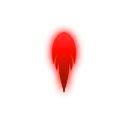
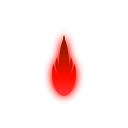
Fixing enemy shoot bug

Changed region(s): [[0.3438, 0.1875, 0.6562, 0.8125]]

diff --git a/examples/03_Tiling/PlayState.cpp b/examples/03_Tiling/PlayState.cpp
@@ -88,7 +88,7 @@ void PlayState::init()
         {
             enemies_shot[i][j].load("data/img/bullet_red.png");
             enemies_shot[i][j].setPosition(400,-500);
-            enemies_shot[i][j].setScale(0.5, -0.5);
+            enemies_shot[i][j].setScale(0.5, 0.5);
             enemies_shot[i][j].play();
         }
 
@@ -190,7 +190,7 @@ void PlayState::restart()
     // from Street Fighter 2 AND Space Jam soundtrack - https://www.youtube.com/watch?v=QDFDzTOyLvo
 
     turn = 1.0;
-    enemies_speed = 1.0;
+    enemies_speed = 1000.0;
     enemies_dead = 0;
     lives = 3;
     won = 0;
@@ -429,6 +429,7 @@ void PlayState::checkCollisions()
                         won = 1;
                 }
             }
+            printf("%i", enemies_shot[i][j].bboxCollision(player));
             if(enemies_shot[i][j].bboxCollision(player)&&gracePeriod==0)
             {
                 printf("TIRO\n");
@@ -606,7 +607,7 @@ void PlayState::update(cgf::Game* game)
     {
         gracePeriod--;
     }
-    printf("%d",gracePeriod);
+    //printf("%d",gracePeriod);
     player.update(game->getUpdateInterval());
     //enemy.update(game->getUpdateInterval());
 
@@ -703,7 +704,6 @@ void PlayState::draw(cgf::Game* game)
     {
         screen->draw(player);
     }
-    screen->draw(shot);
     screen->draw(text);
 
     for(int i = 0; i<3; i++)
